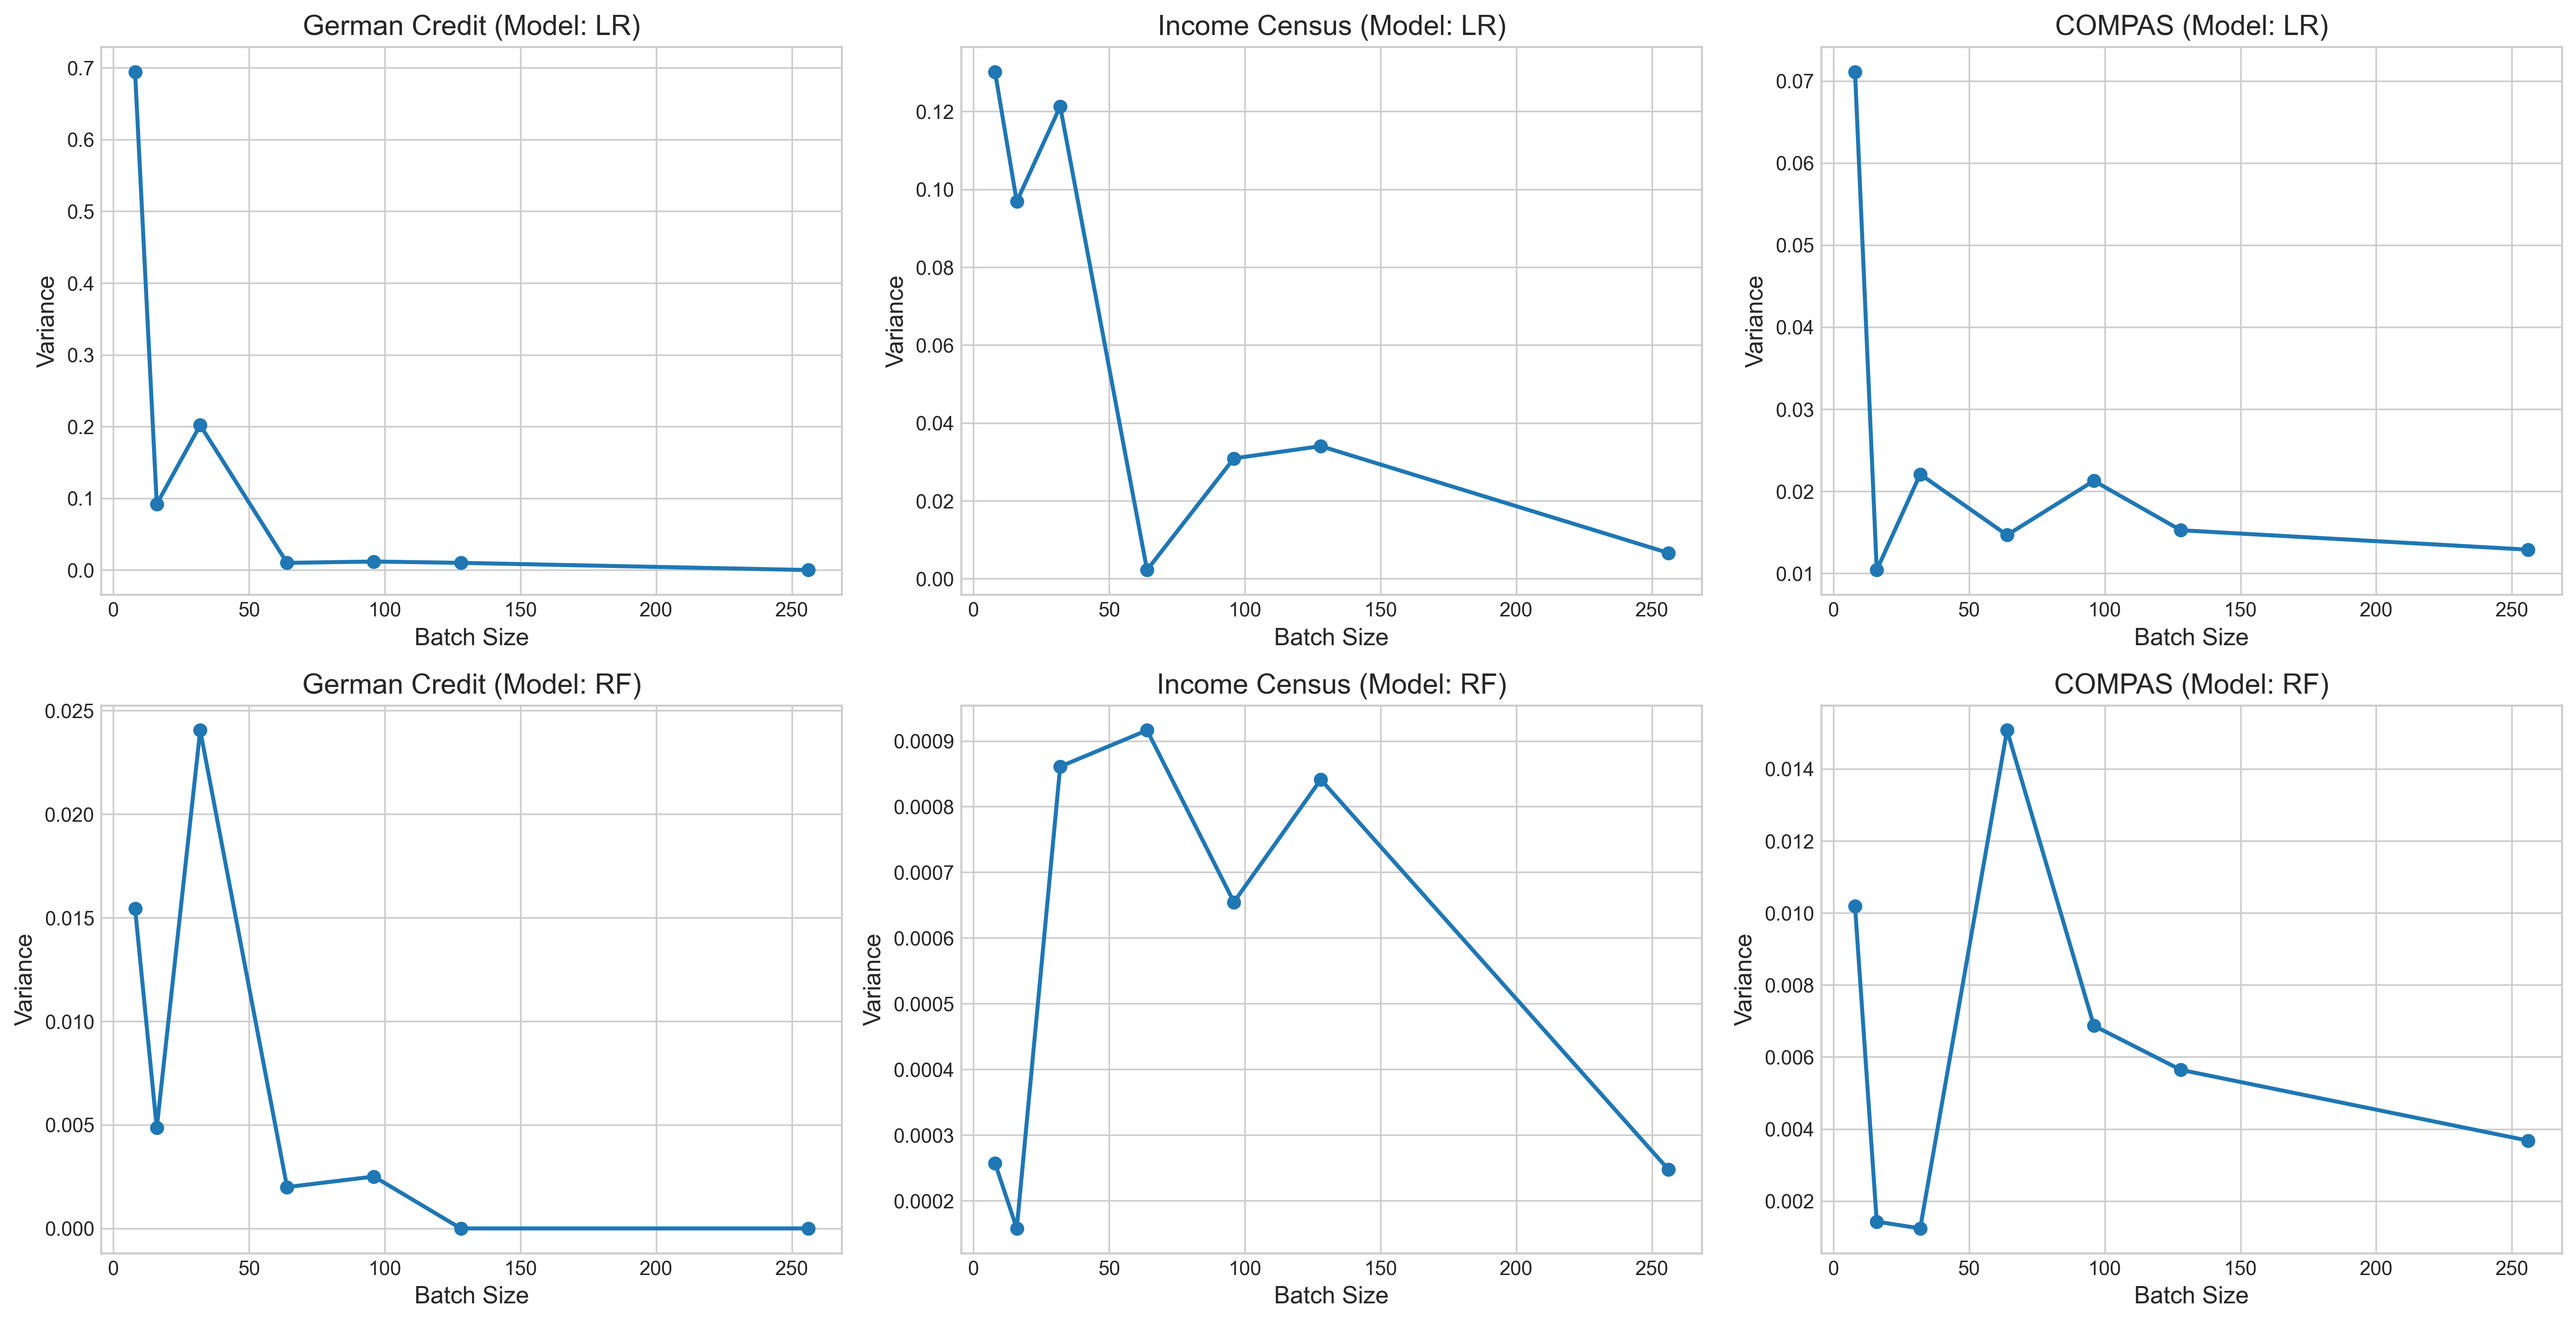
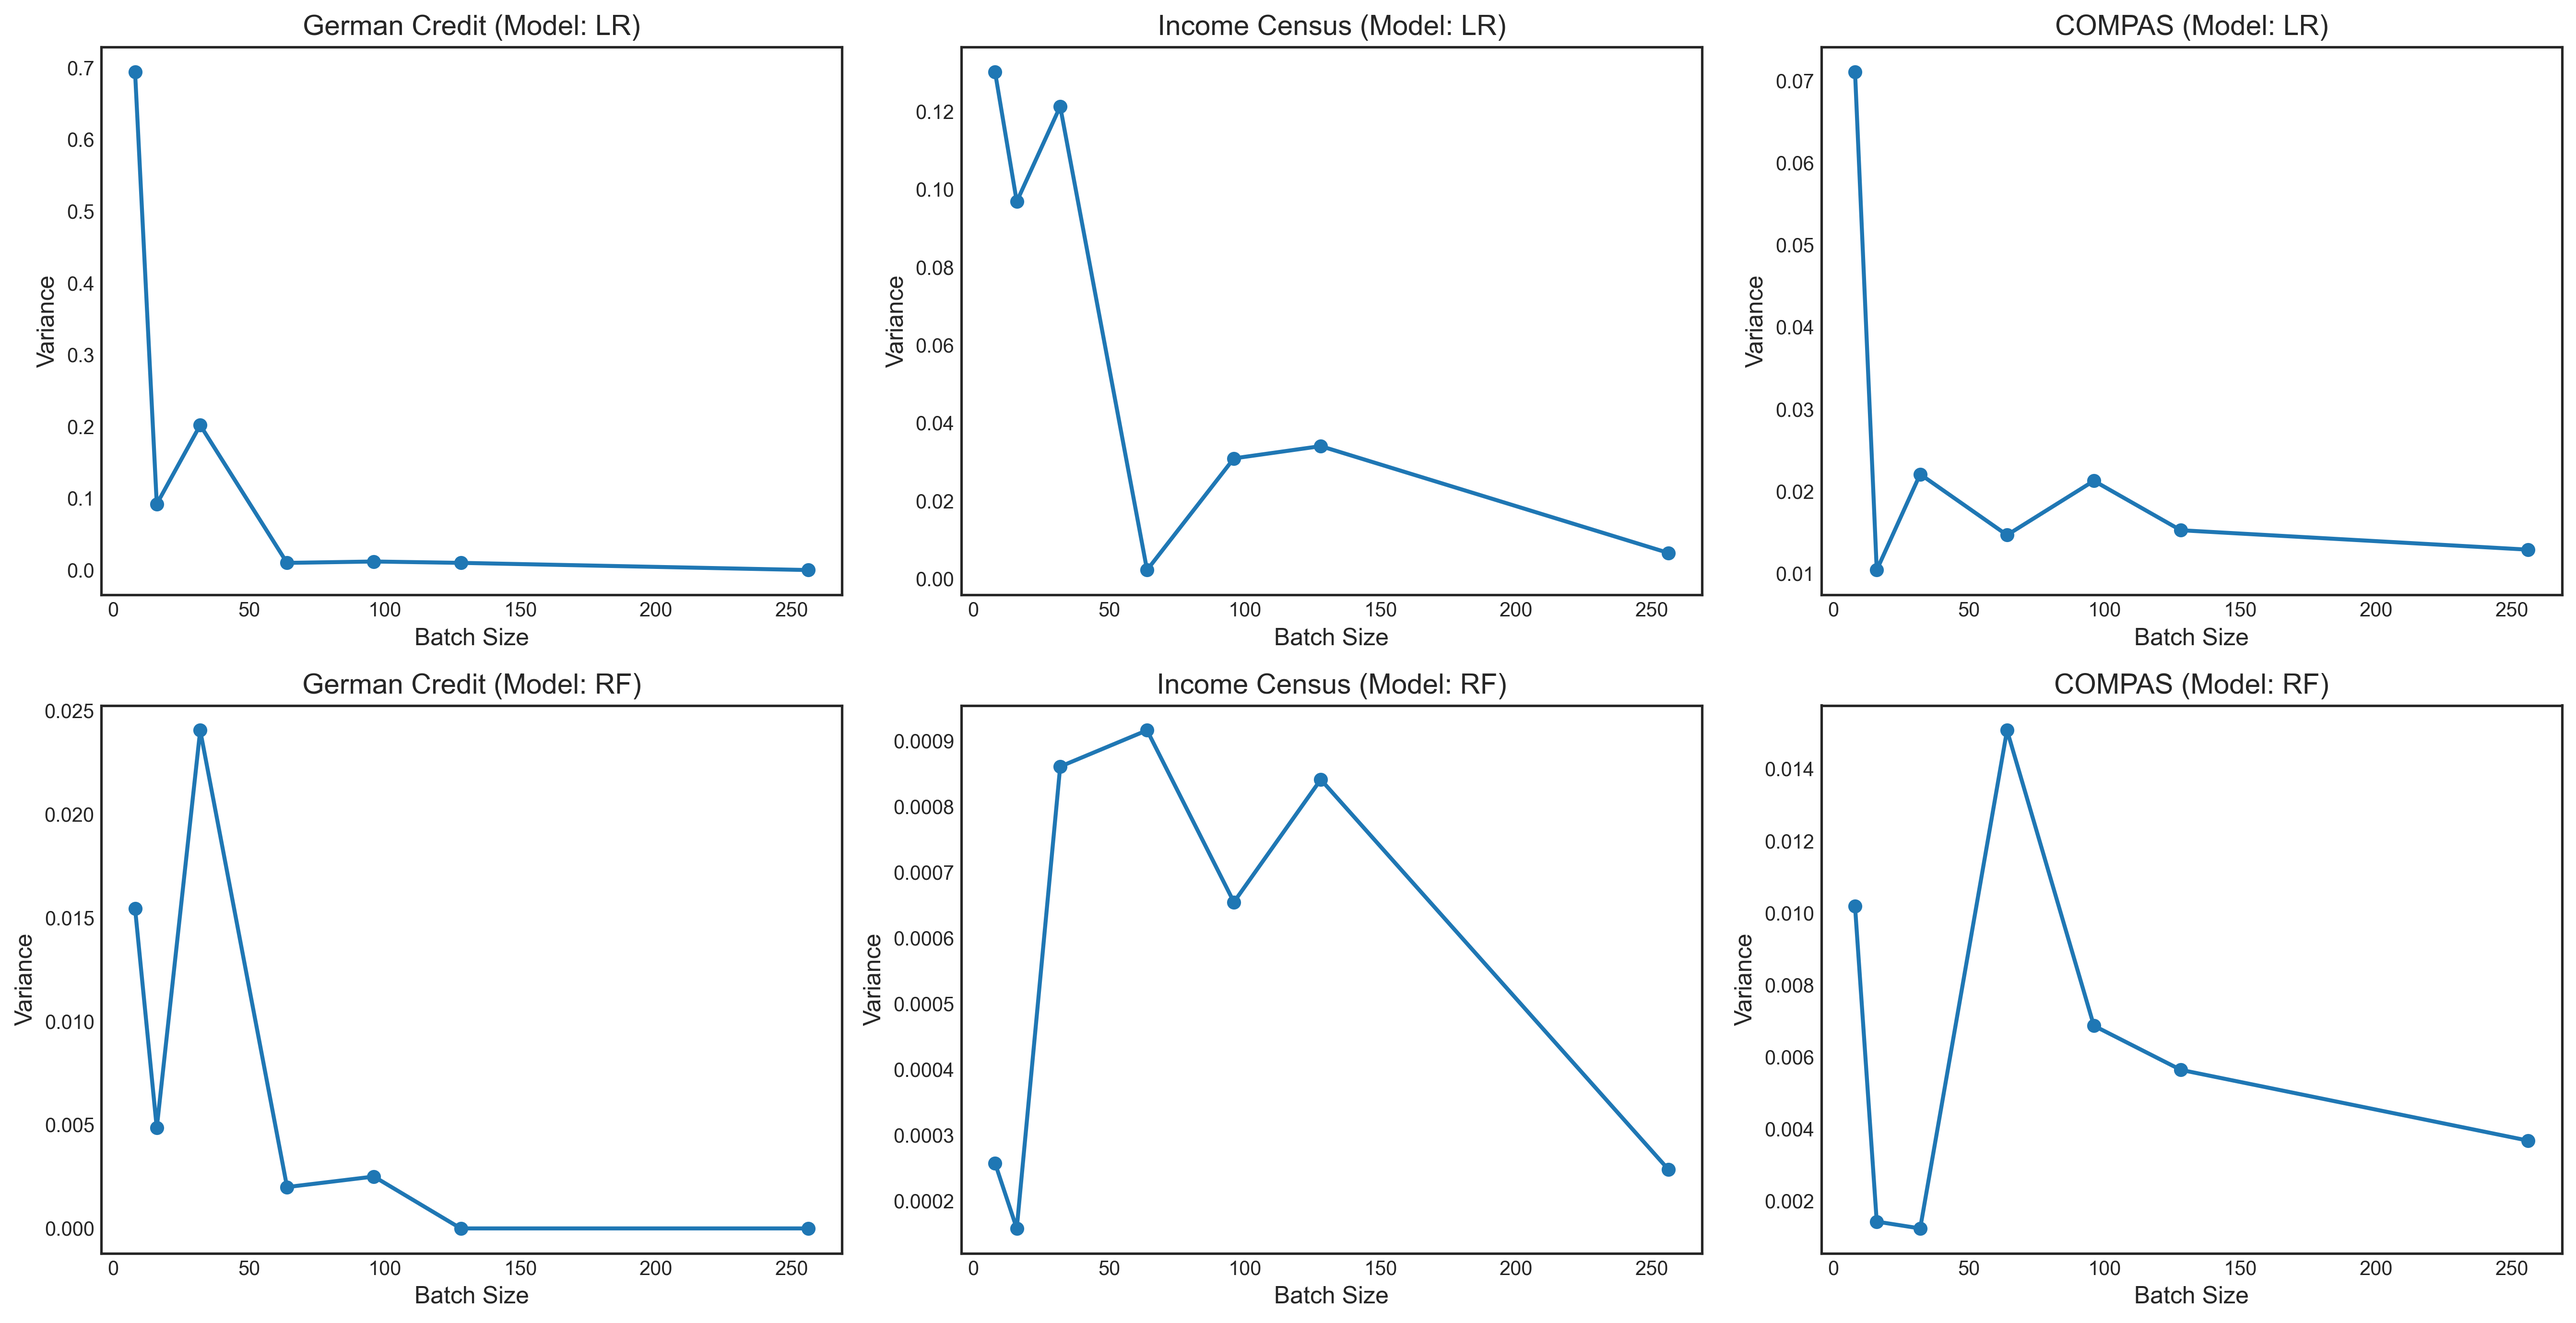
Graph updates

diff --git a/further_analysis/batch_size_masking_value/plotter.py b/further_analysis/batch_size_masking_value/plotter.py
@@ -6,7 +6,7 @@ import seaborn as sns
 sns.set_style("whitegrid")
 
 def main():
-    plt.style.use('seaborn-v0_8-whitegrid')
+    plt.style.use('seaborn-v0_8-white')
 
     df = pd.read_csv("significance_variance.csv")
 
